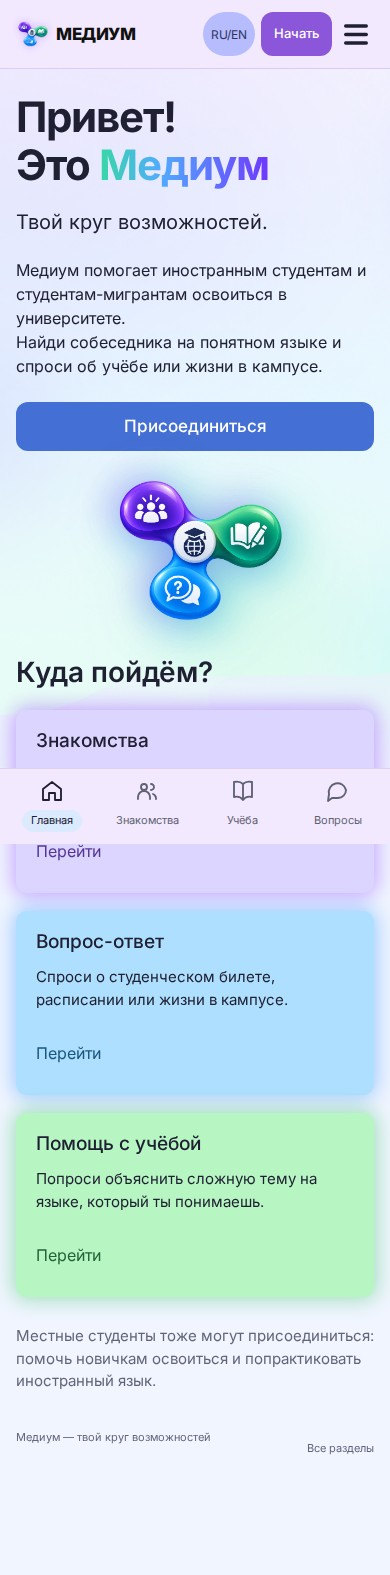
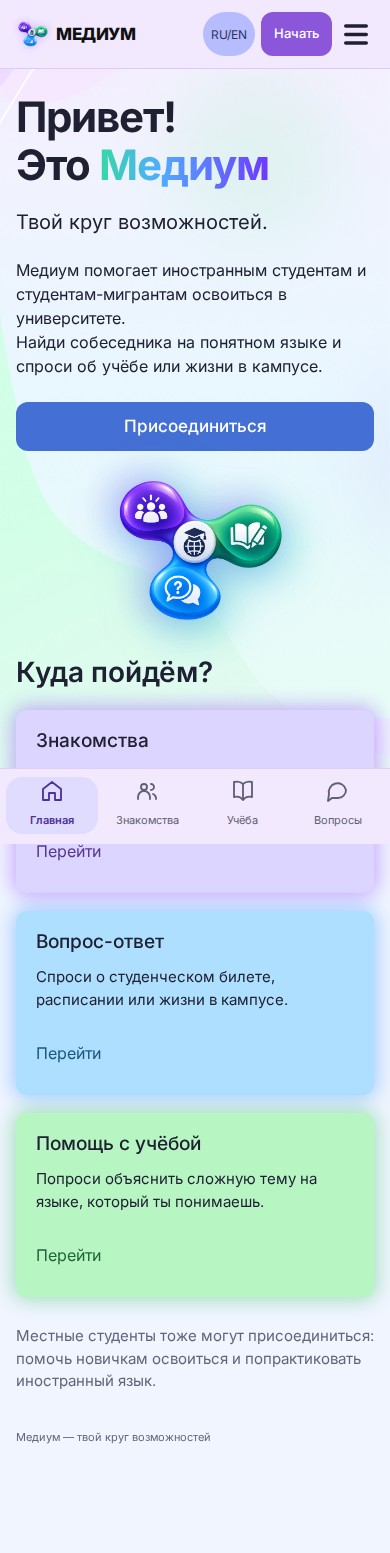
Record verified interface update and Amvera deployment [skip ci]

diff --git a/docs/REPORT.md b/docs/REPORT.md
@@ -22,9 +22,11 @@
 
 Тексты главной, подсказки, уведомления и демонстрационные описания отредактированы по Humanizer. Русская и английская версии говорят проще; название и слоган бренда сохранены. Убраны лишние обещания и повторения, документация сокращена без изменения команд и ссылок. Подписи счётчиков используют формат «Оценок: 1», «Ответов: 3» и «Общие языки: 2», который подходит для любого числа.
 
-Мобильные правки от 7 октября: гостевая кнопка шапки показывает «Начать» и ведёт к регистрации; длинная подпись «Присоединиться» остаётся на главной. Кнопки шапки имеют область нажатия не меньше 44 × 44 пикселей, кнопка возврата — высоту 48 пикселей, вкладки помощи — 52 пикселя. Подпись «Место в сообществе» заменена на «Место в рейтинге Медиума». У логотипа восстановлено свечение. Исходный фон привязан к экрану; полоса шапки из изображения обрезается средствами CSS. Нижняя навигация учитывает безопасную область телефона, для прокрутки оставлен нижний отступ. Отдельный тест проверяет 18 гостевых вариантов: RU/EN при 320 × 580, 390 × 660 и 390 × 844 в трёх движках.
+Мобильные правки от 7 октября: гостевая кнопка шапки показывает «Начать» и ведёт к регистрации; длинная подпись «Присоединиться» остаётся на главной. Кнопки шапки имеют область нажатия не меньше 44 × 44 пикселей, кнопка возврата — высоту 48 пикселей, вкладки помощи — 52 пикселя. Подпись «Место в сообществе» заменена на «Место в рейтинге Медиума». У логотипа восстановлено свечение. Исходный фон привязан к экрану; волна фона закреплена в левом верхнем углу. Нижняя навигация учитывает безопасную область телефона, для прокрутки оставлен нижний отступ. Отдельный тест проверяет 18 гостевых вариантов: RU/EN при 320 × 580, 390 × 660 и 390 × 844 в трёх движках.
 
 Добавлены короткие анимации меню, подсветки вкладок, кнопок и выбранной звезды. Цвета, фон и логотип сохранены. Настройка уменьшения движения отключает анимации. При переходе из меню окно закрывается до показа новой страницы, чтобы форма сразу принимала ввод. Подробности — в [MOTION.md](MOTION.md).
+
+Обновлены выбор языка, навигация и общие размеры вкладок. У поиска рамка фокуса охватывает всё поле. Фон с волной и самолётик отправки экспортированы из Figma; выбранные языки и интересы отмечаются спокойными галочками. Подробности — в [UI-POLISH.md](UI-POLISH.md).
 
 ## Проверки
 
@@ -37,19 +39,19 @@
 | Профиль и знакомства | Профиль сохраняется, работают поиск, пустое состояние и фильтр языка |
 | Вопрос → ответ → оценка | Публикация и ответ проверены от разных демо-пользователей; 5 заменяется на 2; рейтинг обновляется; собственная оценка отключена |
 | Помощь с учёбой | Запрос, отклик, диалог, выбор помощника, завершение и 5 звёзд проверены |
-| Чат | Сообщение отправляется по Enter и отображается в переписке |
+| Чат | Сообщение отправляется по Enter; 60 сообщений и длинный список диалогов прокручиваются отдельно, поле ввода остаётся на месте при ширине 1440, 390 и 320 пикселей |
 | Клавиатура | В Chromium, Firefox и WebKit прошли выбор звёзд клавишей End, Tab внутри модального меню, Escape и смена RU/EN |
 | axe A/AA | 84 сканирования: 66 для 11 маршрутов на ПК и телефоне и 18 для гостевой главной RU/EN в Chromium, Firefox и WebKit; автоматических нарушений не найдено. Полное соответствие WCAG требует также ручной проверки |
 | Анимации | 18 вариантов: обычное и уменьшенное движение при ширине 320, 390 и 1440 пикселей в трёх движках; фокус меню, быстрая замена оценки, подсветка вкладок и области нажатия проверены |
-| Скриншоты | 9 экранов ПК, 9 экранов телефона и 2 гостевых экрана телефона; окно 1440 × 900 и 390 × 844, длинные страницы сняты целиком |
+| Скриншоты | 9 экранов ПК, 9 экранов телефона и 2 гостевых экрана телефона, а также длинная тестовая переписка; окно 1440 × 900 и 390 × 844, длинные страницы сняты целиком |
 
-После добавления анимаций на Ubuntu в GitHub Actions прошли все 30 E2E-сценариев в Chromium, Firefox и WebKit. В окончательном прогоне ошибок и нестабильных тестов нет. Свежие скриншоты главной, профиля и рейтинга проверены на ПК и телефоне. Английские варианты изменённых страниц также проверены на четырёх размерах.
+После обновления интерфейса на Ubuntu в GitHub Actions прошли все 33 E2E-сценария в Chromium, Firefox и WebKit. В окончательном прогоне ошибок и нестабильных тестов нет. Свежие скриншоты главной, профиля и рейтинга проверены на ПК и телефоне. Английские варианты изменённых страниц также проверены на четырёх размерах.
 
 ## Репозиторий и результат CI
 
-[Успешная проверка GitHub Actions](https://github.com/JustEd10/medium-student-community/actions/runs/37667184941): 7 тестов логики, 30 E2E сценариев и production-сборка прошли. Проверенный коммит приложения: `ac587ab9955c0aa181a3ca810f2ecb129f8c2130`. Результат записан в `ci-check.json`. Локальный запуск отдельных браузеров был заблокирован macOS; независимая проверка выполнена в CI.
+[Успешная проверка GitHub Actions](https://github.com/JustEd10/medium-student-community/actions/runs/37683050939): 7 тестов логики, 33 E2E сценария и production-сборка прошли. Проверенный коммит приложения: `139fd03ae8d65a0514b6e2c8338ce72d0b864926`. Результат записан в `ci-check.json`. Локальный запуск отдельных браузеров был заблокирован macOS; независимая проверка выполнена в CI.
 
-GitHub: [JustEd10/medium-student-community](https://github.com/JustEd10/medium-student-community). Репозиторий публичный и доступен без входа в аккаунт. Исходники, тесты, отчёт и 20 скриншотов загружены в ветку `main`. Сайт опубликован: [medium-bob01.amvera.io](https://medium-bob01.amvera.io/). Развёртывание выполнено через Safari в приложении Amvera `medium`: Docker собирает проверенные исходники, Nginx отдаёт production-сборку на порту 80. После повторного запуска работают 1 из 1 реплик. HTML и все 15 файлов совпадают с локальной production-сборкой и возвращают HTTP 200. На опубликованной версии в мобильном окне проверены перемещение подсветки вкладок, полная непрозрачность текста и переход из меню с фокусом на заголовке новой страницы. Результат записан в `deployment-check.json`.
+GitHub: [JustEd10/medium-student-community](https://github.com/JustEd10/medium-student-community). Репозиторий публичный и доступен без входа в аккаунт. Исходники, тесты, отчёт и 21 скриншот загружены в ветку `main`. Сайт опубликован: [medium-bob01.amvera.io](https://medium-bob01.amvera.io/). Развёртывание выполнено через Safari в приложении Amvera `medium`: Docker собирает проверенные исходники, Nginx отдаёт production-сборку на порту 80. После повторного запуска работают 1 из 1 реплик. HTML и все 16 файлов совпадают с локальной production-сборкой и возвращают HTTP 200. На опубликованной версии проверены мягкие галочки, навигация и самолётик по центру поля сообщения; чат проверен на ПК и телефоне. Результат записан в `deployment-check.json`.
 
 Данные сохраняются в браузере. Для реального обмена между пользователями нужен backend с авторизацией, базой данных и серверным хранением сообщений и оценок. В рамках задания сделана frontend-часть.
 

diff --git a/docs/AMVERA.md b/docs/AMVERA.md
@@ -4,9 +4,9 @@
 
 Сайт работает в приложении `medium`, аккаунте `bob01`, регионе `msk0`. Для публикации через Safari в раздел Code загружены `Dockerfile` и `source.tar.gz`, затем запущена сборка. Создан бесплатный внешний HTTPS-домен. Дополнительные реплики и тариф не менялись.
 
[2 lines of base64/hex data omitted]
 
-Архив загружен через Safari в коммит Amvera `a9ad40424e5b84b9282ca3368e9f08e498c22805`. После сборки подтверждены статус «Запущено» и 1 из 1 реплик. HTML и 15 файлов — JavaScript, CSS, фон, два логотипа и 10 SVG-иконок — совпадают с локальной production-сборкой и возвращают HTTP 200. На опубликованной версии проверены перемещение подсветки вкладок, полная непрозрачность текста и переход из меню с фокусом на заголовке новой страницы. Результат записан в `deployment-check.json`.
+Архив загружен через Safari в коммит Amvera `650dbac8a611b06a2b7034866ca0452db056bf5c`. Конфигурация Docker с портом 80 сохранена в `amvera.yml`, итоговый коммит — `deee93eb9df51e40c7f241224364edbc96ee4fab`. После сборки подтверждены статус «Запущено» и 1 из 1 реплик. HTML и 16 файлов — JavaScript, CSS, фон, два логотипа и 11 SVG-иконок — совпадают с локальной production-сборкой и возвращают HTTP 200. На опубликованной версии проверены галочки, навигация, закреплённое поле ввода и самолётик; чат также проверен при ширине 390 пикселей. Результат записан в `deployment-check.json`.
 
 ## Повторная публикация через Safari
 
@@ -18,7 +18,7 @@ cp deploy/amvera/Dockerfile ../medium-amvera-upload/Dockerfile
 git archive --format=tar.gz --output=../medium-amvera-upload/source.tar.gz HEAD src public index.html package.json package-lock.json vite.config.js postcss.config.js tailwind.config.js
 ```
 
-В Amvera открой «Репозиторий», вкладку Code и нажми «Загрузить данные». Загрузи оба файла, затем открой «Конфигурация» и нажми «Собрать». Архив должен называться `source.tar.gz`: Docker распакует его при сборке. Дождись статуса «Запущено» и проверь внешний HTTPS-адрес.
+В Amvera открой «Репозиторий», вкладку Code и нажми «Загрузить данные». При первой публикации загрузи оба файла; для обновления исходников достаточно `source.tar.gz`. Затем открой «Конфигурация» и нажми «Собрать». Если конфигурационного файла нет, сначала сохрани окружение `docker`, инструмент `docker`, Dockerfile `Dockerfile` и порт 80 кнопкой «Применить». Архив должен называться `source.tar.gz`: Docker распакует его при сборке. Дождись статуса «Запущено» и проверь внешний HTTPS-адрес.
 
 Чтобы опубликовать изменения из GitHub, снова упакуй исходники и загрузи их через Safari. Автоматическая синхронизация с GitHub пока не подключена.
 

diff --git a/docs/UI-POLISH.md b/docs/UI-POLISH.md
@@ -1,0 +1,17 @@
+# Правки интерфейса от 7 октября 2026 года
+
+Фон взят из фрейма «фон» на странице «01 · Концепция», узел `119:3389`. Экспорт PNG сохранён в `src/bg.png`; волна закреплена в левом верхнем углу и не обрезается смещением фона. Самолётик экспортирован из компонента `akar-icons:send` в чате, узел `119:2808`, и сохранён в `public/assets/send.svg`.
+
+Вкладки «Вопросы / Рейтинг» и «Могу помочь / Нужна помощь» используют одинаковые размеры: ширина блока до 600 px, высота кнопки 52 px, Inter Medium 20 px на ПК и 15 px на телефоне. Подсветка перемещается за 240 мс; при уменьшенном движении переход отключён.
+
+У поиска рамка фокуса охватывает всё поле вместе с иконкой. Выбор языка получил скруглённую форму и один шеврон; нативный select сохраняет работу с клавиатуры. У навигации обновлены форма кнопок и активное состояние. Ссылка «Все разделы» из подвала удалена. Основные фиолетовые кнопки, включая «Войти», используют белый текст.
+
+В профиле выбранные языки и интересы отмечаются небольшими галочками на светлом фоне. Настоящие checkbox остаются доступными для клавиатуры и экранного диктора.
+
+Блок общения ограничен высотой окна. Список диалогов и сообщения прокручиваются отдельно; заголовок собеседника и поле ввода остаются на месте. Самолётик стоит в области 44 × 44 px по центру правого края поля, включая многострочный ввод и показ ошибок. Поле можно растянуть до 180 px. Отправка по Enter и перенос строки по Shift + Enter сохранены.
+
+Тест длинной переписки создаёт 60 сообщений и длинный список диалогов в отдельном тестовом браузере. Он проверяет независимую прокрутку, положение поля ввода, выравнивание кнопки после ошибки и отправку сообщения при ширине 1440, 390 и 320 px.
+
+Цвет текста и фона навигации меняется одновременно, чтобы во время перехода между страницами сохранялась читаемость. Свечение при наведении остаётся плавным. Меню игнорирует запоздалое событие закрытия, если его уже открыли повторно.
+
+Проверка [GitHub Actions 37683050939](https://github.com/JustEd10/medium-student-community/actions/runs/37683050939) прошла: 7 тестов логики, 33 браузерных сценария и сборка. Проверенный коммит — `139fd03ae8d65a0514b6e2c8338ce72d0b864926`. Версия опубликована в Amvera; HTML и все 16 основных ресурсов совпадают с локальной сборкой.

diff --git a/README.md b/README.md
@@ -83,7 +83,7 @@ npm run test:e2e
 
 Сборка и 7 тестов правил приложения прошли. В браузере Codex проверены пользовательские сценарии при ширине 1440, 768, 390 и 320 пикселей, выбор звёзд клавиатурой и доступность через axe. Результаты и ограничения описаны в [отчёте](docs/REPORT.md).
 
-В GitHub Actions прошли 30 end-to-end тестов production-сборки в Chromium, Firefox и WebKit, 7 тестов логики и сама сборка. Проверены 240 сочетаний языка, маршрута и ширины и 18 гостевых вариантов на телефонах, 18 вариантов анимаций с обычным и уменьшенным движением, клавиатура, формы, чат, оценки и 84 автоматические проверки доступности. [Успешный запуск CI](https://github.com/JustEd10/medium-student-community/actions/runs/37667184941) проверил код коммита `ac587ab`. В локальной среде macOS отдельные процессы браузеров были заблокированы; кроссбраузерная проверка выполнена на Ubuntu в CI. Workflow использует официальные [checkout](https://github.com/actions/checkout), [setup-node](https://github.com/actions/setup-node) и [upload-artifact](https://github.com/actions/upload-artifact).
+В GitHub Actions прошли 33 end-to-end теста production-сборки в Chromium, Firefox и WebKit, 7 тестов логики и сама сборка. Проверены 240 сочетаний языка, маршрута и ширины и 18 гостевых вариантов на телефонах, 18 вариантов анимаций с обычным и уменьшенным движением, клавиатура, формы, чат, оценки и 84 автоматические проверки доступности. [Успешный запуск CI](https://github.com/JustEd10/medium-student-community/actions/runs/37683050939) проверил код коммита `139fd03`. В локальной среде macOS отдельные процессы браузеров были заблокированы; кроссбраузерная проверка выполнена на Ubuntu в CI. Workflow использует официальные [checkout](https://github.com/actions/checkout), [setup-node](https://github.com/actions/setup-node) и [upload-artifact](https://github.com/actions/upload-artifact).
 
 В режиме разработки можно открыть инструменты проверки:
 

diff --git a/docs/screenshots/README.md b/docs/screenshots/README.md
@@ -1,6 +1,6 @@
 # Скриншоты реализации
 
-Скриншоты сняты Playwright в Chromium после добавления анимаций от 7 октября 2026 года. Размер окна: 1440 × 900 для ПК и 390 × 844 для телефона. Длинные страницы сняты целиком. На экранах видны демо-профили, вопросы и запросы помощи.
+Скриншоты сняты Playwright в Chromium после обновления интерфейса и прокрутки чатов от 7 октября 2026 года. Размер окна: 1440 × 900 для ПК и 390 × 844 для телефона. Длинные страницы сняты целиком. На экранах видны демо-профили, вопросы и запросы помощи.
 
 | Экран | ПК | Телефон |
 | --- | --- | --- |
@@ -14,6 +14,8 @@
 | Запрос помощи | [Открыть](desktop-help-rating.jpg) | [Открыть](mobile-help-rating.jpg) |
 | Переписка | [Открыть](desktop-chat.jpg) | [Открыть](mobile-chat.jpg) |
 
-Источник: [GitHub Actions, запуск 37667184941](https://github.com/JustEd10/medium-student-community/actions/runs/37667184941), коммит `ac587ab9955c0aa181a3ca810f2ecb129f8c2130`. В CI прошли 30 браузерных сценариев в Chromium, Firefox и WebKit; проверены также английские версии шести изменённых страниц при ширине 1440, 768, 390 и 320 пикселей.
+Источник: [GitHub Actions, запуск 37683050939](https://github.com/JustEd10/medium-student-community/actions/runs/37683050939), коммит `139fd03ae8d65a0514b6e2c8338ce72d0b864926`. В CI прошли 33 браузерных сценария в Chromium, Firefox и WebKit; проверены также английские версии шести изменённых страниц при ширине 1440, 768, 390 и 320 пикселей.
 
 Гостевые экраны телефона: [главная](mobile-guest-home.jpg), [вопрос с кнопкой возврата](mobile-guest-answer.jpg).
+
+Отдельный [тест длинной переписки](desktop-long-chat.jpg) использует 60 сообщений и 35 дополнительных диалогов в изолированном браузере. Это тестовые данные для проверки прокрутки.
